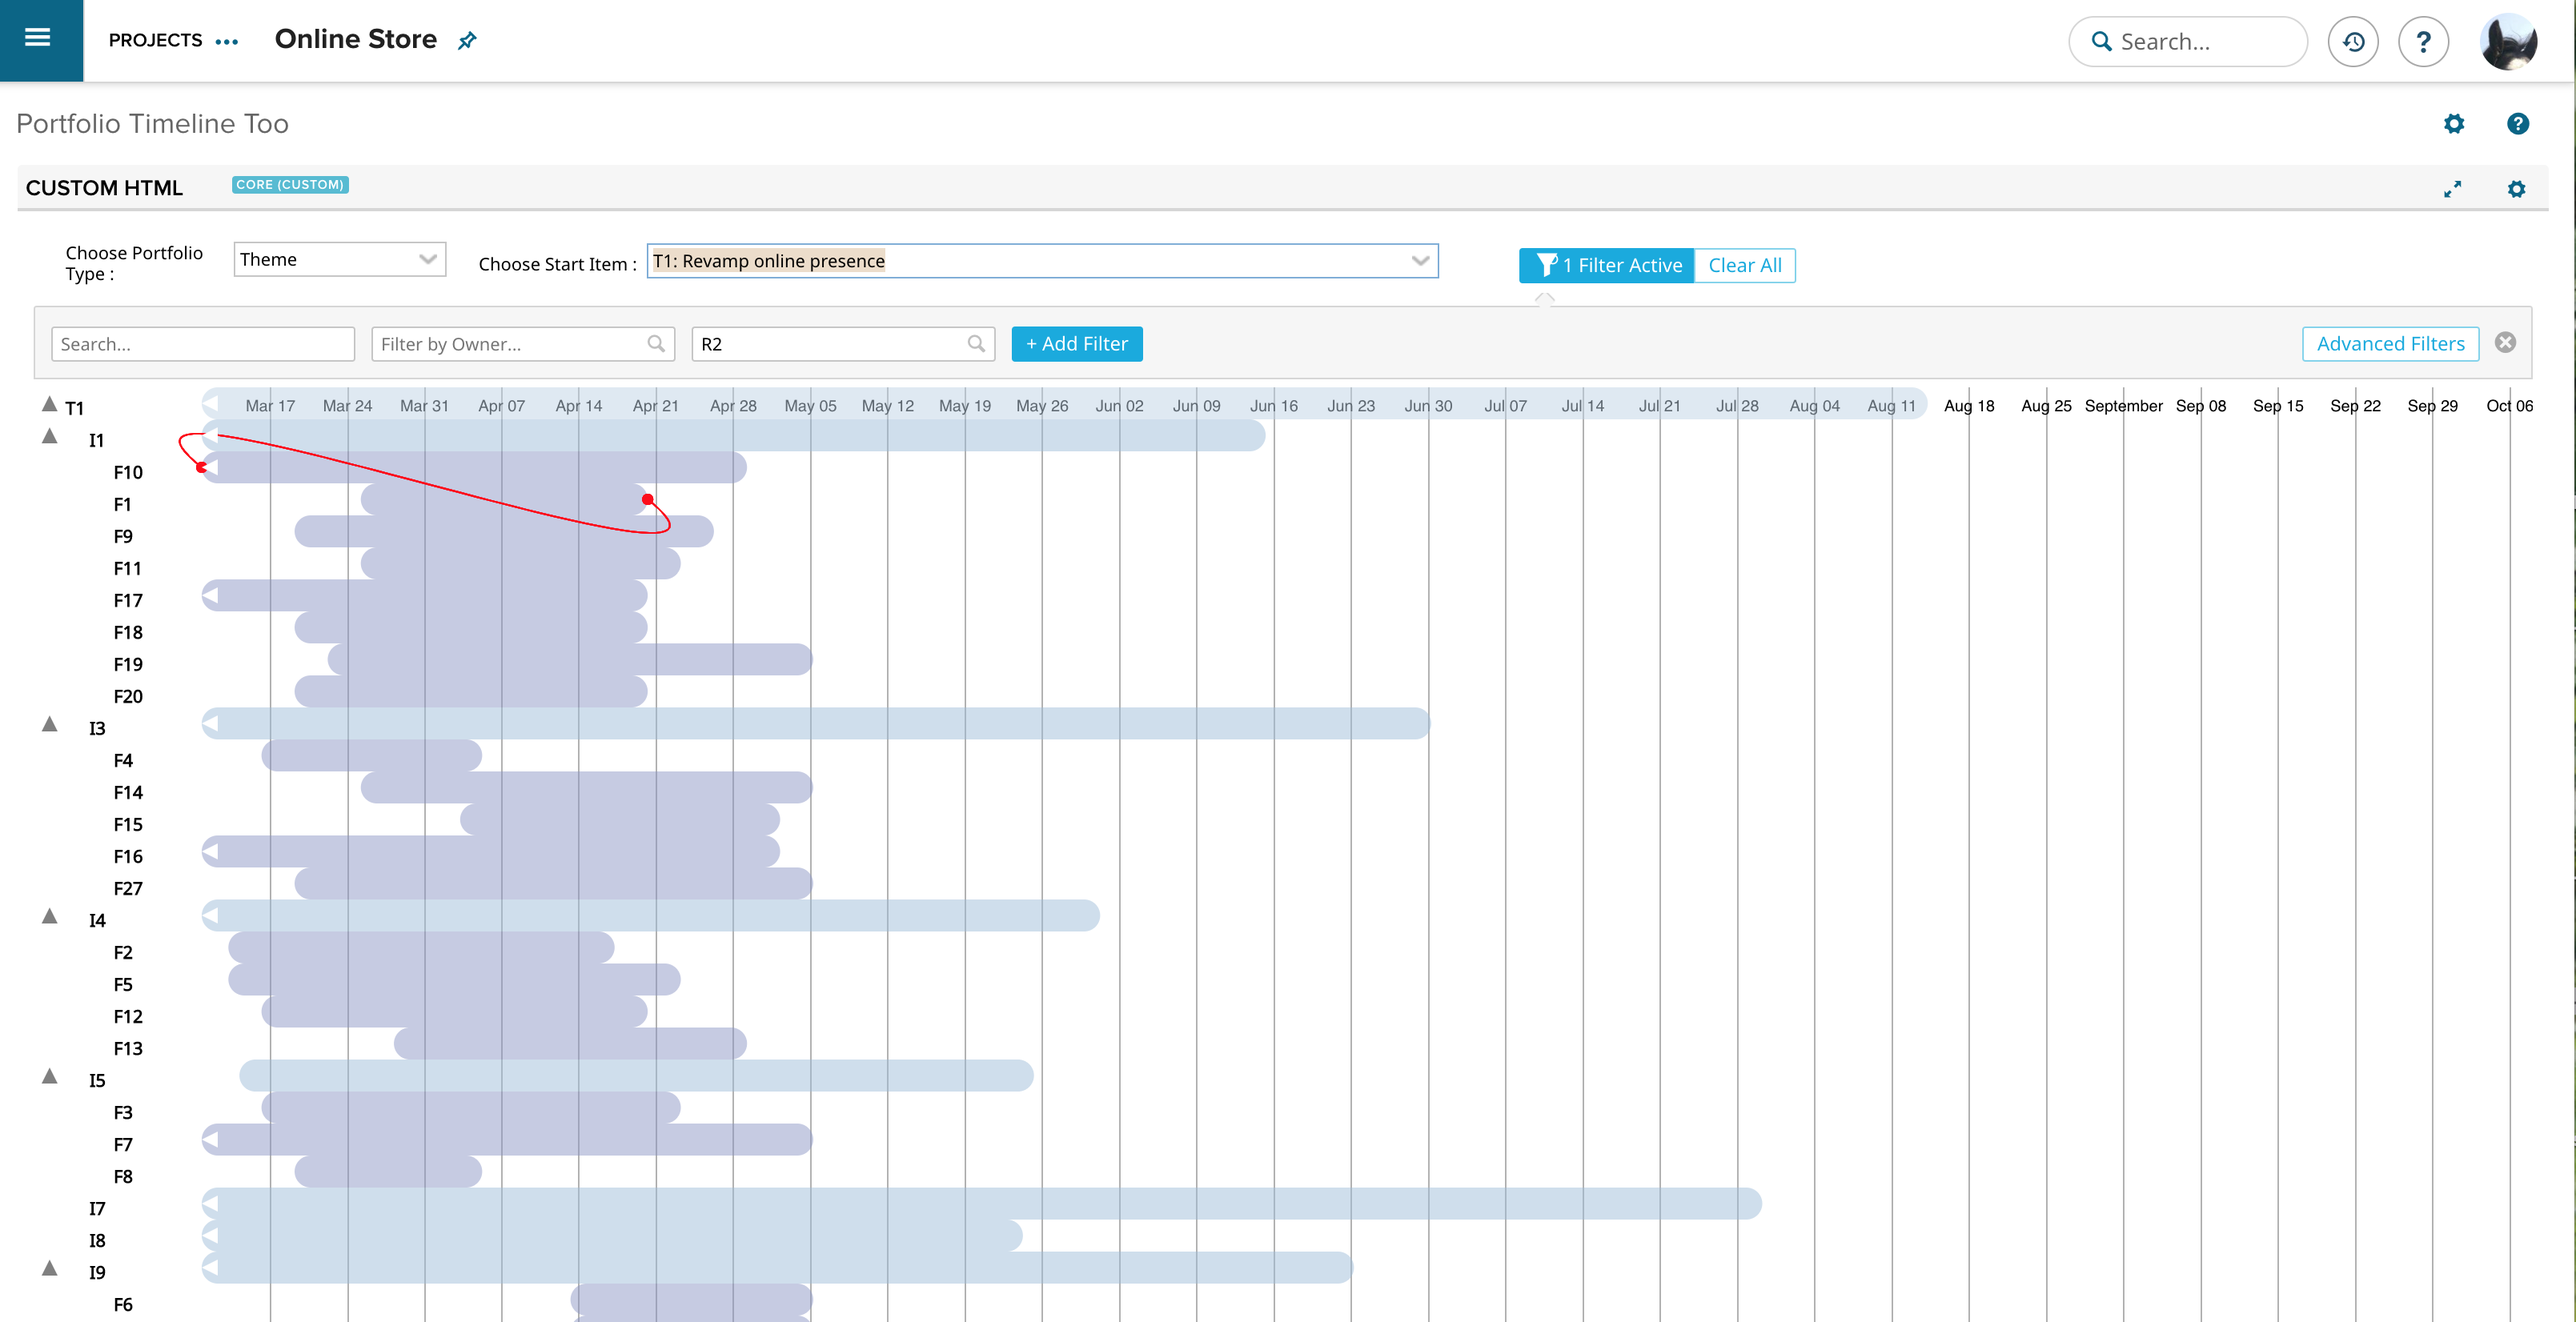
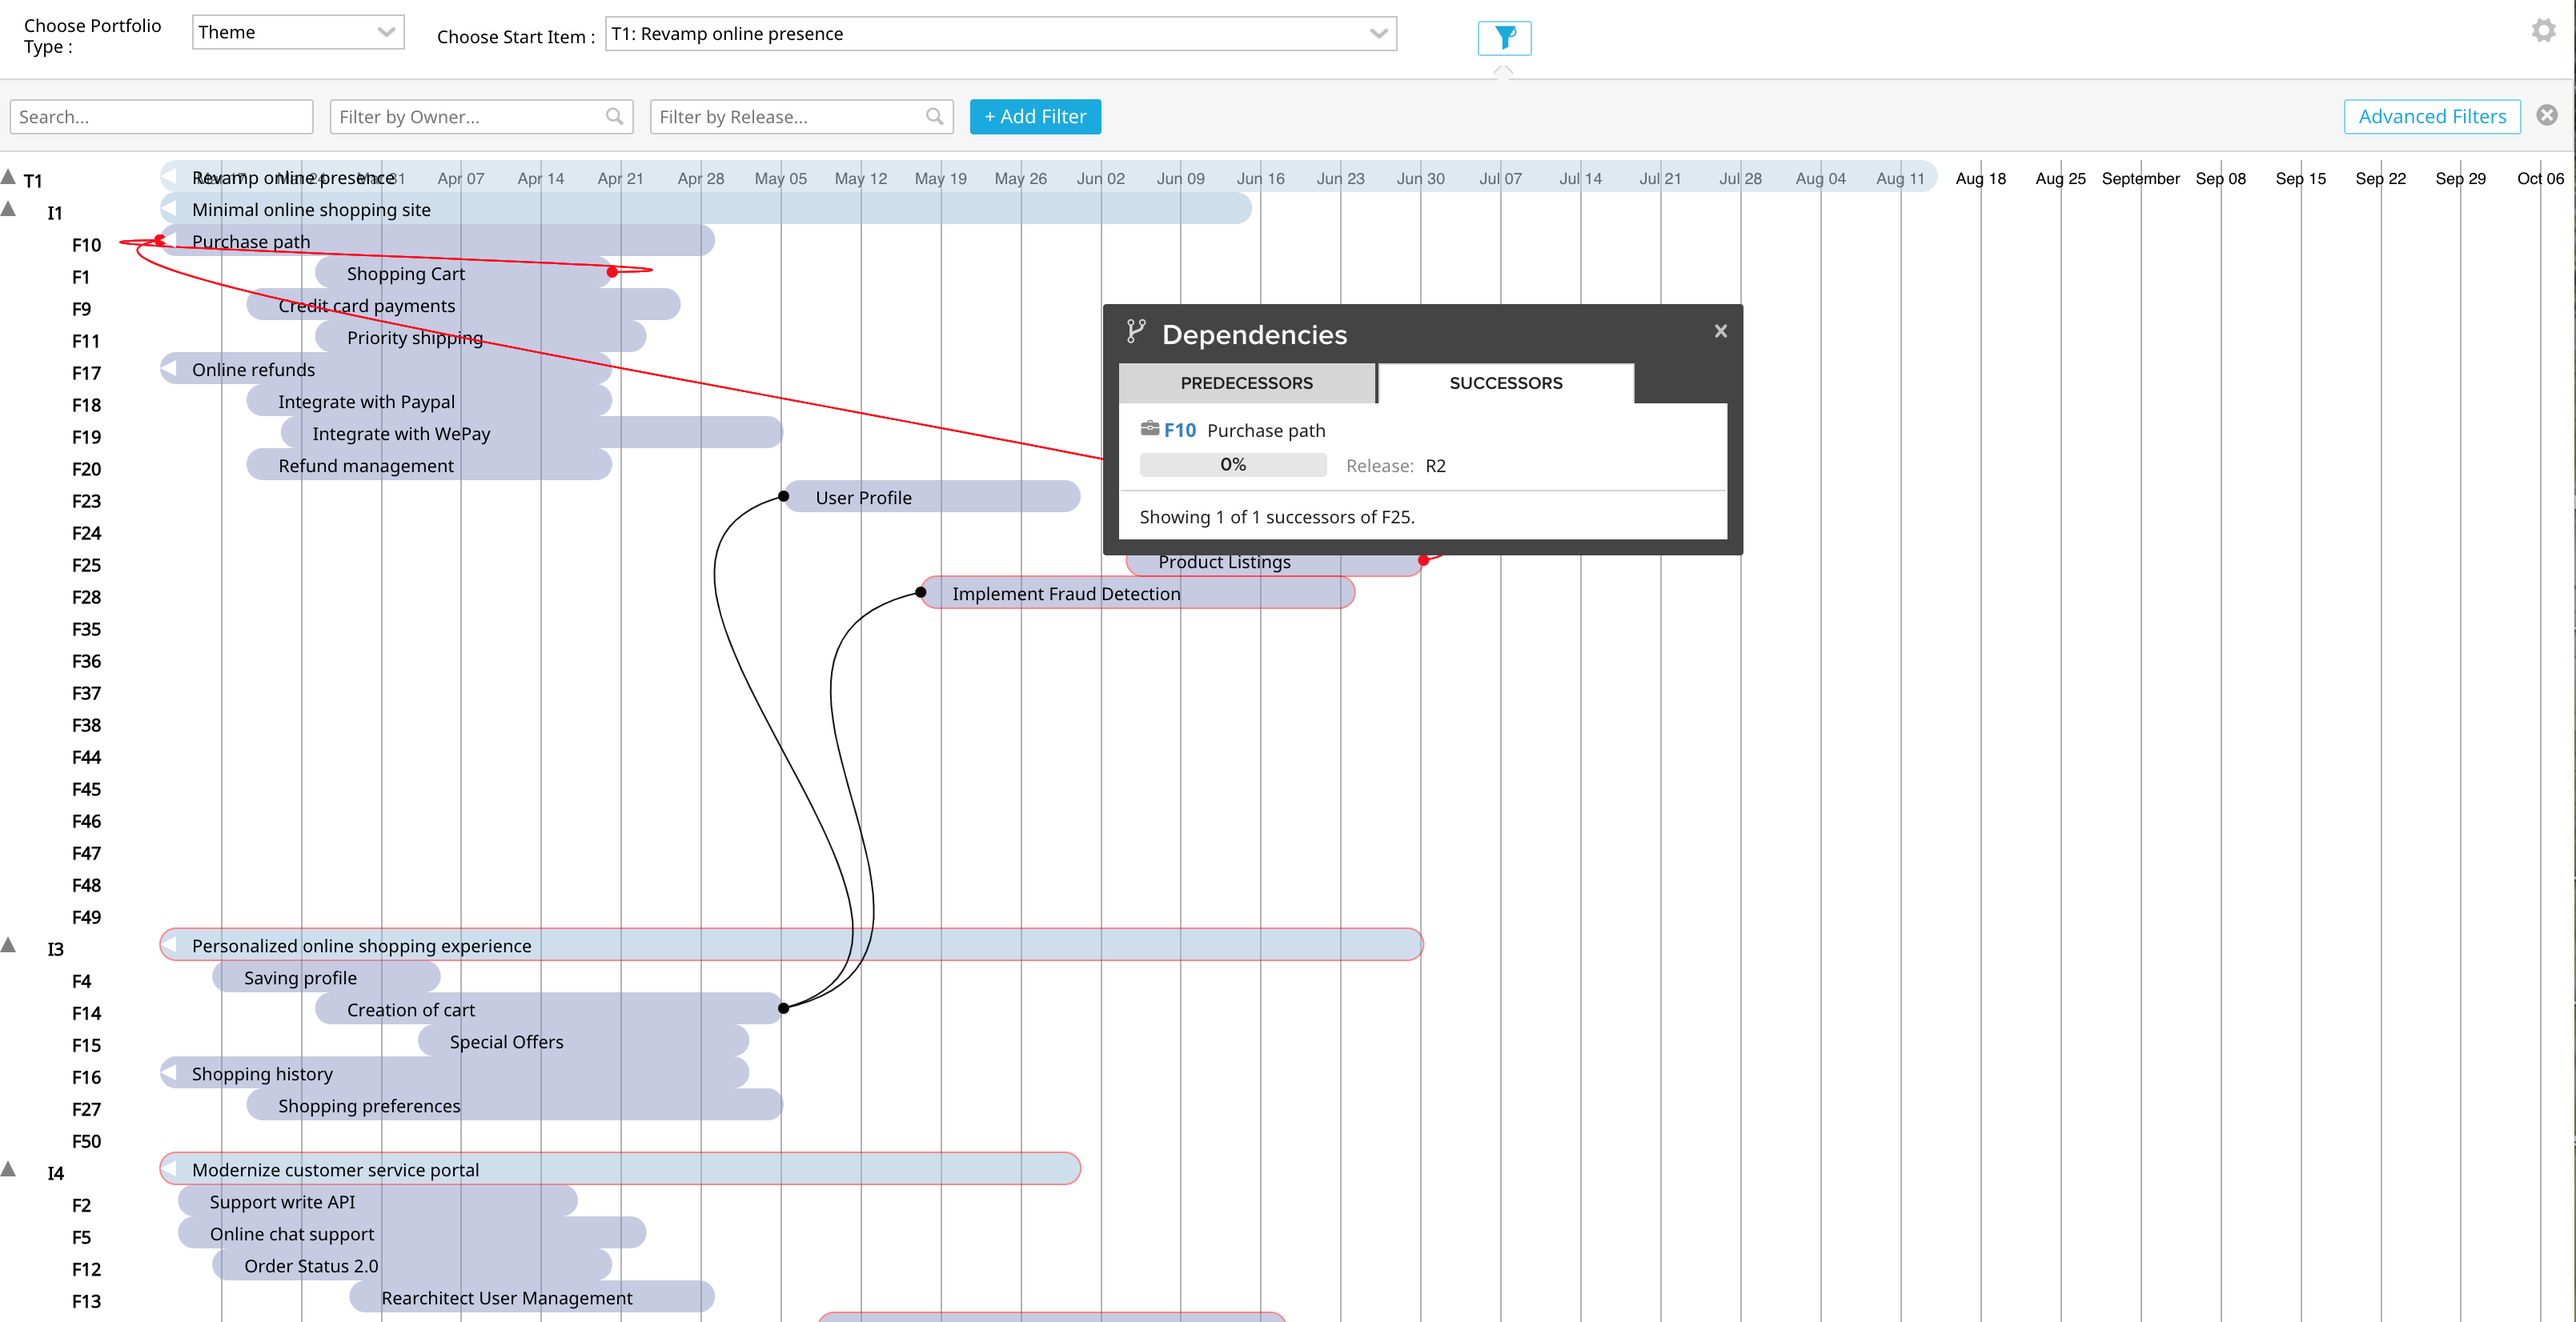
Fix overwritten dateline

diff --git a/App.js b/App.js
@@ -255,28 +255,6 @@ Ext.define('Nik.apps.PortfolioItemTimeline.app', {
         });
     },
 
-    _defineText: function(d, boundingBox) {
-        var svgBox = boundingBox.node().getBBox();
-        var svgNode = d.g.node();
-        var text =document.createElementNS("http://www.w3.org/2000/svg", 'text');
-        var clip = document.createElementNS("http://www.w3.org/2000/svg", 'clipPath');
-        clip.setAttribute('id', 'textClip-'+d.data.Name);
-        var clipBox = document.createElementNS("http://www.w3.org/2000/svg", 'rect');
-        debugger;
-        clipBox.setAttribute('width', svgBox.width );
-        clipBox.setAttribute('height', svgBox.height );
-        clip.appendChild(clipBox);
-        svgNode.appendChild(clip);
-        this.svg.setAttribute('clip-path', 'url(#textClip'+d.data.Name+')');
-        text.setAttribute('id', 'gridText');
-        text.setAttribute('class', 'svgTextBox');
-        text.setAttribute('editable', this.editable === true ? 'simple' : 'none');
-        text.setAttribute('x', this.x + 10 + 2);    //Move text in a bit
-        text.setAttribute('y', this.y + 20 + 2);    //CSS specifies a 2px border
-        text.textContent = this.text;
-        retur
-    },
-
     _refreshTree: function(){
         var svgHeight = parseInt(d3.select('svg').attr('height'));
         var svgWidth = parseInt(d3.select('svg').attr('width')) - gApp.LEFT_MARGIN_SIZE;
@@ -292,17 +270,18 @@ Ext.define('Nik.apps.PortfolioItemTimeline.app', {
         //Let's scale to the dateline
         nodetree.eachBefore(function(d) {
             //Come here before we visit the children to set up our 'g' spot
+            var shiftY = ((d.rpos * svgHeight) + 
+                            (d.parent?gApp.MIN_ROW_HEIGHT:0)) ;
             if ( !d.parent ) {
-                d.g = d3.select('#zoomTree').append('g')
-                    .attr('transform', 'translate(0,' + (gApp.getSetting('showTimeLine')?gApp.MIN_ROW_HEIGHT:0) + ')');
-                d.t = d3.select('#staticTree').append('g')
-                    .attr('transform', 'translate(0,' + (gApp.getSetting('showTimeLine')?gApp.MIN_ROW_HEIGHT:0) + ')');
+                d.g = d3.select('#zoomTree').append('g');
+                d.t = d3.select('#staticTree').append('g');
+                shiftY += (gApp.getSetting('showTimeLine')?gApp.MIN_ROW_HEIGHT:0);
             }
             else {
                 d.g = d.parent.g.append('g');
                 d.t = d.parent.t.append('g');
             }
-            var shiftY = ((d.rpos * svgHeight) + (d.parent?gApp.MIN_ROW_HEIGHT:0));
+
             var startX = gApp.dateScaler(new Date(d.data.record.get('PlannedStartDate')));
             var endX   = gApp.dateScaler(new Date(d.data.record.get('PlannedEndDate')));
             startX = startX<0? 0 : startX;

diff --git a/app.css b/app.css
@@ -22,9 +22,9 @@
   font: 14px sans-serif;
 }
 
-.info--box text {
-    font-size: 14px;
-    font-family: "ProximaNovaSemiBold,Helvetica,Arial"
+.normalText {
+    font-size: 1em;
+    font-family: "sans-serif"
 }
 .node--internal text {
   text-shadow: 0 1px 0 #fff, 0 -1px 0 #fff, 1px 0 0 #fff, -1px 0 0 #fff;

diff --git a/README.md b/README.md
@@ -3,6 +3,8 @@ Portfolio Item Tree Time Line
 
 ## Overview
 
-Another take on the Portfolio Timeline page in Rally. 
+Another take on the Portfolio Timeline page in Rally.  A string board for PI planning
+
+Hover over a dependency link dot and it will give you the dependency popover.
 
 ![alt text](https://github.com/nikantonelli/PortfolioItemTimeLine/blob/master/Images/overview.png)
